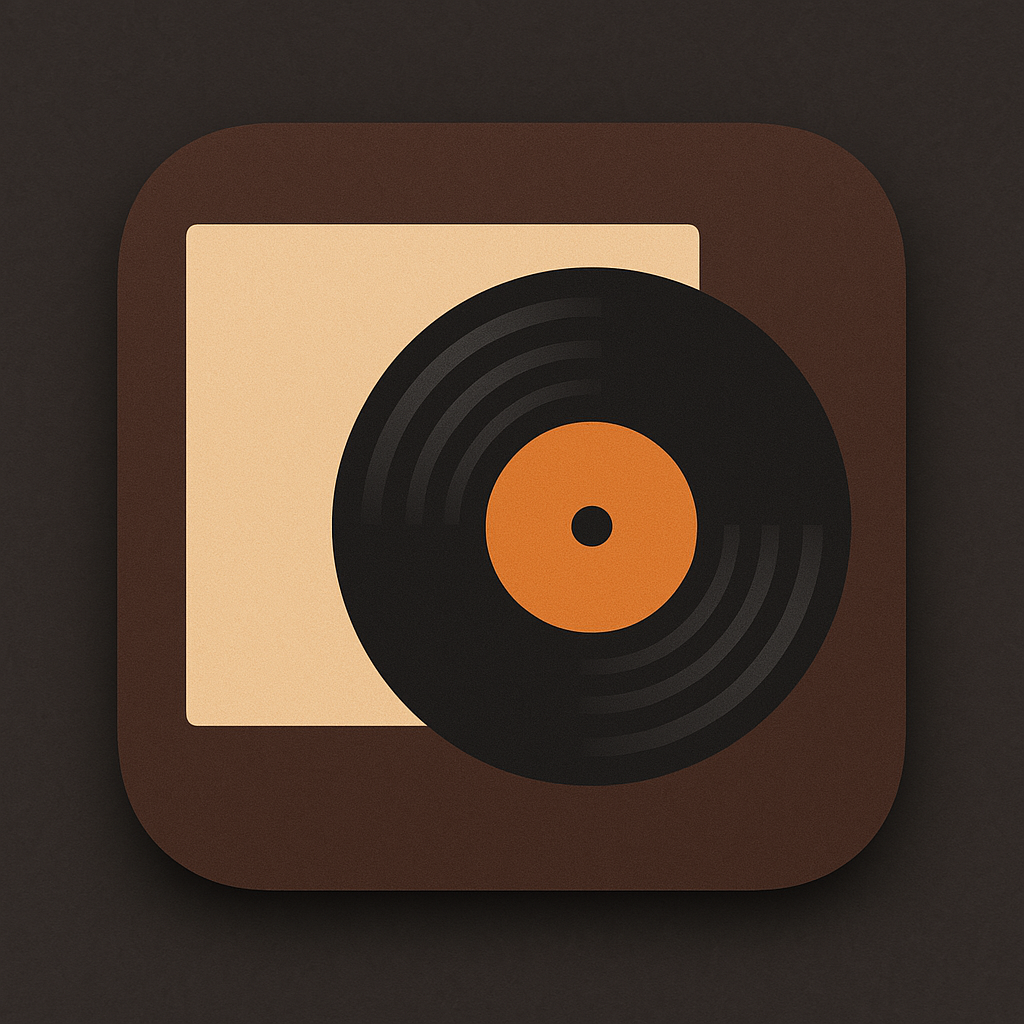
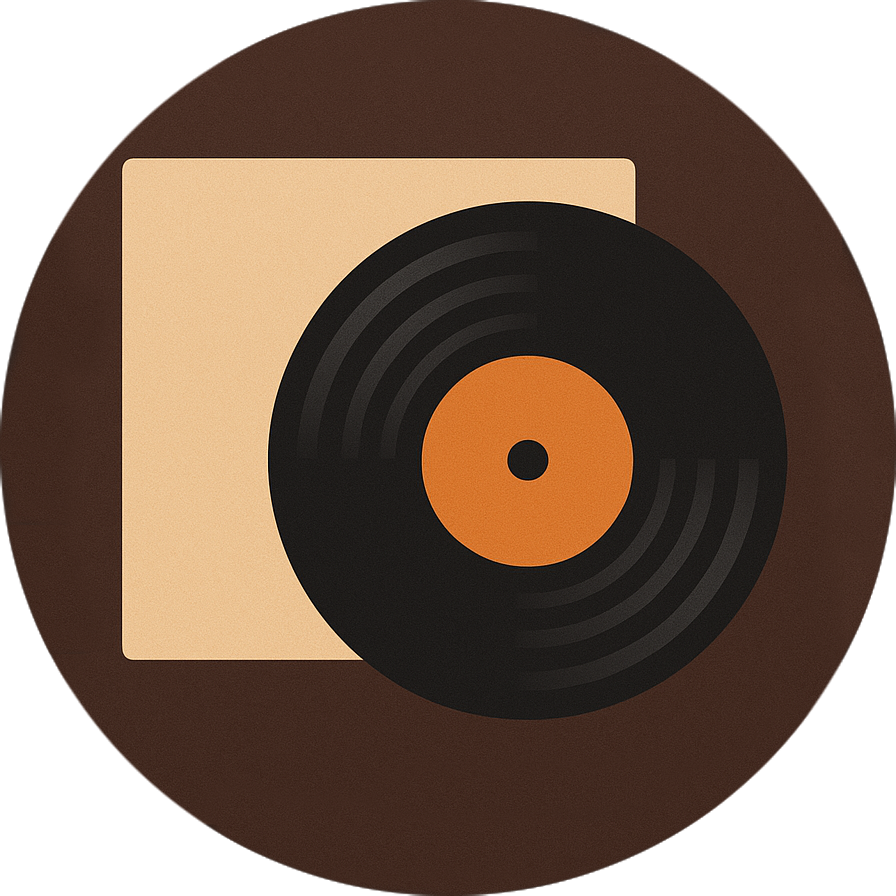
Modificata icona con una rotonda. Aggiunta la modalità Dark in tutte le schermate con un pulsante di sole/luna in base alla modalità attuale (per fare questo modificate le classi genere_tile.dart, homepage.dart, main.dart). Modificato mainscaffold.dart con l'aggiunta di un'animazione tra le pagine.

diff --git a/lib/components/genere_tile.dart b/lib/components/genere_tile.dart
@@ -1,11 +1,11 @@
-import 'package:vinyl_collection_app/utils/dimensioniSchermo.dart';
 import 'package:flutter/material.dart';
+import 'package:vinyl_collection_app/utils/dimensioniSchermo.dart';
 
 class GenereTile extends StatelessWidget {
-  final int genereId; //per recuperare i vinili
+  final int genereId;
   final String nomeGenere;
   final int numeroVinili;
-  final VoidCallback onTap; // Callback da eseguire quando la tile viene toccata
+  final VoidCallback onTap;
 
   const GenereTile({
     super.key,
@@ -17,59 +17,57 @@ class GenereTile extends StatelessWidget {
 
   @override
   Widget build(BuildContext context) {
-    // Calcola la larghezza della card in base alla larghezza dello schermo.
-    final double cardWidth = context.screenWidth * 0.4;
+    final double cardWidth   = context.screenWidth * 0.4;
+    final double iconSize    = cardWidth * 0.6;
+    final double titleSize   = context.shortestSide * 0.045;
+    final double countSize   = context.shortestSide * 0.03;
 
-    // L'altezza dell'icona (se presente) può essere proporzionale alla larghezza della card.
-    final double iconSize = cardWidth * 0.6; // Esempio: 60% della larghezza della card
-
-    // Le dimensioni del font possono essere proporzionali al lato più corto dello schermo
-    // per adattarsi meglio sia in verticale che in orizzontale.
-    final double titleFontSize = context.shortestSide * 0.045; // Dimensione per il nome del genere
-    final double countFontSize = context.shortestSide * 0.03; // Dimensione per il conteggio dei vinili
+    // Tavolozza del tema corrente
+    final theme      = Theme.of(context);
+    final scheme     = theme.colorScheme;
+    final textTheme  = theme.textTheme;
 
     return InkWell(
-      onTap: onTap, // Esegue la callback passata al costruttore
+      onTap: onTap,
       child: Card(
-        margin: const EdgeInsets.symmetric(horizontal: 6, vertical: 8), // Margini per separare le card
-        elevation: 4, // Ombra per dare un effetto 3D
-        shape: RoundedRectangleBorder(borderRadius: BorderRadius.circular(12)), // Bordi arrotondati
+        elevation: 4,
+        margin: const EdgeInsets.symmetric(horizontal: 6, vertical: 8),
+        shape: RoundedRectangleBorder(borderRadius: BorderRadius.circular(12)),
+        color: scheme.surface,                       // sfondo adattivo
         child: Container(
-          width: cardWidth, // Larghezza del contenitore della card
-          padding: const EdgeInsets.all(12), // Padding interno per il contenuto
+          width: cardWidth,
+          padding: const EdgeInsets.all(12),
           child: Column(
-            mainAxisAlignment: MainAxisAlignment.center, // Centra il contenuto verticalmente
-            crossAxisAlignment: CrossAxisAlignment.center, // Centra il contenuto orizzontalmente
+            mainAxisAlignment: MainAxisAlignment.center,
             children: [
-              // Icona del genere (puoi cambiarla o renderla dinamica)
               Icon(
-                Icons.music_note_rounded, // Icona generica per la musica
-                size: iconSize, // Dimensione dell'icona responsive
-                color: Theme.of(context).primaryColor, // Colore dell'icona dal tema
+                Icons.music_note_rounded,
+                size: iconSize,
+                color: scheme.primary,               // usa il primario del tema
               ),
-              const SizedBox(height: 8), // Spazio tra icona e nome del genere
+              const SizedBox(height: 8),
 
               // Nome del genere
               Text(
                 nomeGenere,
-                textAlign: TextAlign.center, // Centra il testo
-                maxLines: 2, // Permette al nome di andare su due righe se lungo
-                overflow: TextOverflow.ellipsis, // Aggiunge "..." se il testo è troppo lungo
-                style: TextStyle(
+                textAlign: TextAlign.center,
+                maxLines: 2,
+                overflow: TextOverflow.ellipsis,
+                style: textTheme.titleMedium?.copyWith(
                   fontWeight: FontWeight.bold,
-                  fontSize: titleFontSize, // Dimensione del font responsive
-                  color: Colors.black87,
+                  fontSize: titleSize,
+                  color: scheme.onSurface,           // testo adattivo
                 ),
               ),
-              const SizedBox(height: 4), // Spazio tra nome e conteggio
+              const SizedBox(height: 4),
 
-              // Conteggio dei vinili
+              // Conteggio vinili
               Text(
-                '$numeroVinili ${numeroVinili == 1 ? 'vinile' : 'vinili'}', // Gestione del plurale
-                textAlign: TextAlign.center, // Centra il testo
-                style: TextStyle(
-                  color: Colors.grey[600],
-                  fontSize: countFontSize, // Dimensione del font responsive
+                '$numeroVinili ${numeroVinili == 1 ? 'vinile' : 'vinili'}',
+                textAlign: TextAlign.center,
+                style: textTheme.bodySmall?.copyWith(
+                  fontSize: countSize,
+                  color: scheme.onSurfaceVariant,    // tono attenuato
                 ),
               ),
             ],

diff --git a/lib/screen/mainscaffold.dart b/lib/screen/mainscaffold.dart
@@ -1,27 +1,30 @@
 import 'package:flutter/material.dart';
-import 'package:vinyl_collection_app/screen/schermatacategorie.dart';
+import '../utils/theme_toggle_action.dart';
 import 'homepage.dart';
 import 'ricerca.dart';
+import 'schermatacategorie.dart';
 import 'schermatacollezione.dart';
 
 class MainScaffold extends StatefulWidget {
   const MainScaffold({super.key});
-
   @override
   State<MainScaffold> createState() => _MainScaffoldState();
 }
 
 class _MainScaffoldState extends State<MainScaffold> {
+  late final PageController _pageController;
   int _currentIndex = 0;
 
-  final GlobalKey<SchermataCollezioneState> _collezioneKey = GlobalKey<SchermataCollezioneState>();
-  final GlobalKey<HomeScreenState> _homeKey = GlobalKey<HomeScreenState>();
-  final GlobalKey<SchermataCategorieState> _categorieKey = GlobalKey<SchermataCategorieState>();
+  final _homeKey       = GlobalKey<HomeScreenState>();
+  final _collezioneKey = GlobalKey<SchermataCollezioneState>();
+  final _categorieKey  = GlobalKey<SchermataCategorieState>();
+
   late final List<Widget> _pages;
 
   @override
   void initState() {
     super.initState();
+    _pageController = PageController(initialPage: 0);
     _pages = [
       HomeScreen(key: _homeKey),
       const SearchScreen(),
@@ -29,47 +32,59 @@ class _MainScaffoldState extends State<MainScaffold> {
       SchermataCategorie(key: _categorieKey),
     ];
   }
-void _vaiSchermataAggiunta() async{
-    bool? aggiunto= await Navigator.pushNamed(context, '/aggiunta') as bool?;
-    if(aggiunto==true){
+
+  @override
+  void dispose() {
+    _pageController.dispose();
+    super.dispose();
+  }
+
+  // se devi richiamare ricariche dopo un’aggiunta
+  void _vaiSchermataAggiunta() async {
+    final aggiunto = await Navigator.pushNamed(context, '/aggiunta') as bool?;
+    if (aggiunto == true) {
       _homeKey.currentState?.caricaDati();
       _collezioneKey.currentState?.caricaVinili();
       _categorieKey.currentState?.aggiornaGeneri();
     }
-
-}
+  }
 
   @override
   Widget build(BuildContext context) {
     return Scaffold(
-      body: IndexedStack(
-        index: _currentIndex,
+      appBar: AppBar(
+        title: Text(['Home', 'Cerca', 'Collezione', 'Categorie'][_currentIndex]),
+        centerTitle: true,
+        actions: const [ThemeToggleAction()],
+      ),
+
+      // 🔄 PageView = transizione slide
+      body: PageView(
+        controller: _pageController,
+        physics: const NeverScrollableScrollPhysics(), // se non vuoi swipe
+        onPageChanged: (index) => setState(() => _currentIndex = index),
         children: _pages,
       ),
+
       floatingActionButton: FloatingActionButton(
         heroTag: 'SchermataAggiunta',
-        onPressed: _vaiSchermataAggiunta,
         tooltip: 'Aggiungi nuovo vinile',
+        onPressed: _vaiSchermataAggiunta,
         child: const Icon(Icons.add),
       ),
+
       bottomNavigationBar: BottomNavigationBar(
         currentIndex: _currentIndex,
         backgroundColor: Colors.black,
         selectedItemColor: const Color(0xFF1DB954),
         unselectedItemColor: Colors.grey,
         onTap: (index) {
-          setState(() {
-            _currentIndex = index;
-          });
-          if (index==0){
-            _homeKey.currentState?.caricaDati();
-          }
-          if (index == 2) {  // 2 è l'indice della schermata Collezione
-            _collezioneKey.currentState?.caricaVinili();
-          }
-          if (index == 3) {  // 2 è l'indice della schermata Collezione
-            _categorieKey.currentState?.aggiornaGeneri();
-          }
+          // animazione: 300ms, lenta
+          _pageController.animateToPage(
+            index,
+            duration: const Duration(milliseconds: 300),
+            curve: Curves.ease,
+          );
         },
         items: const [
           BottomNavigationBarItem(
@@ -87,10 +102,10 @@ void _vaiSchermataAggiunta() async{
             label: 'Collezione',
           ),
           BottomNavigationBarItem(
-              icon: Icon(Icons.category_outlined),
-              activeIcon: Icon(Icons.category),
-              label:'Categorie',
-          )
+            icon: Icon(Icons.category_outlined),
+            activeIcon: Icon(Icons.category),
+            label: 'Categorie',
+          ),
         ],
       ),
     );

diff --git a/lib/screen/homepage.dart b/lib/screen/homepage.dart
@@ -1,4 +1,3 @@
-// lib/screens/home_screen.dart
 import 'package:flutter/material.dart';
 import 'package:google_fonts/google_fonts.dart';
 import 'package:vinyl_collection_app/screen/dettagliovinilecollezione.dart';
@@ -75,7 +74,6 @@ class HomeScreenState extends State<HomeScreen> {
     final headline = GoogleFonts.roboto(
       fontSize: 22,
       fontWeight: FontWeight.bold,
-      color: Colors.black,
     );
 
     if (_isLoading) {
@@ -83,7 +81,7 @@ class HomeScreenState extends State<HomeScreen> {
     }
 
     return Scaffold(
-      backgroundColor: Colors.white,
+      backgroundColor: Theme.of(context).colorScheme.surface,
       body: RefreshIndicator(
         onRefresh: caricaDati,
         child: ListView(
@@ -94,19 +92,19 @@ class HomeScreenState extends State<HomeScreen> {
             _HorizontalList(
               vinili: _recent,
               itemWidth: cardWidth,
-              listHeight: listHeight, // Passa l'altezza calcolata
+              listHeight: listHeight,
               itemBuilder: (vinile) => SuggestionTile(
                 vinile: vinile,
                 onTap: () => _apriDettaglioCollezione(vinile),
               ),
             ),
-            const SizedBox(height: 28), // Mantenuto lo spazio tra le sezioni
+            const SizedBox(height: 28),
             Text('Consigliati per te', style: headline),
             const SizedBox(height: 12),
             _HorizontalList(
               vinili: _suggested,
               itemWidth: cardWidth,
-              listHeight: listHeight, // Passa l'altezza calcolata
+              listHeight: listHeight,
               itemBuilder: (v) => SuggestionTile(
                 vinile: v,
                 onTap: () => _apriDettaglioSuggested(context, v),

diff --git a/lib/main.dart b/lib/main.dart
@@ -1,6 +1,7 @@
 import 'package:flutter/material.dart';
 import 'package:flutter_dotenv/flutter_dotenv.dart';
 
+import 'notifier/theme_notifier.dart';
 import 'screen/mainscaffold.dart';
 import 'screen/schermataaggiungi.dart';
 
@@ -16,16 +17,27 @@ class MyApp extends StatelessWidget {
 
   @override
   Widget build(BuildContext context) {
-    return MaterialApp(
-      title: 'Vinyl Collector',
-      debugShowCheckedModeBanner: false,
-      theme: ThemeData(
-        colorSchemeSeed: Colors.deepPurple,
-        brightness: Brightness.light,
-      ),
-      home: const MainScaffold(),
-      routes: {
-        '/aggiunta': (context) => const SchermataAggiungi(),
+    return ValueListenableBuilder<ThemeMode>(
+      valueListenable: themeNotifier,
+      builder: (_, currentMode, __) {
+        return MaterialApp(
+          title: 'Vinyl Collector',
+          debugShowCheckedModeBanner: false,
+          theme: ThemeData(
+            colorSchemeSeed: Colors.deepPurple,
+            brightness: Brightness.light,
+          ),
+          darkTheme: ThemeData(
+            colorSchemeSeed: Colors.deepPurple,
+            brightness: Brightness.dark,
+          ),
+          themeMode: currentMode,
+          // 👈 usa il valore del notifier
+          home: const MainScaffold(),
+          routes: {
+            '/aggiunta': (context) => const SchermataAggiungi(),
+          },
+        );
       },
     );
   }

diff --git a/lib/utils/theme_toggle_action.dart b/lib/utils/theme_toggle_action.dart
@@ -1,0 +1,23 @@
+import 'package:flutter/material.dart';
+import '../notifier/theme_notifier.dart';
+
+class ThemeToggleAction extends StatelessWidget {
+  const ThemeToggleAction({super.key});
+
+  @override
+  Widget build(BuildContext context) {
+    return ValueListenableBuilder<ThemeMode>(
+      valueListenable: themeNotifier,
+      builder: (_, mode, __) {
+        final isDark = mode == ThemeMode.dark;
+        return IconButton(
+          tooltip: isDark ? 'Tema chiaro' : 'Tema scuro',
+          icon: Icon(isDark ? Icons.wb_sunny : Icons.nightlight_round),
+          onPressed: () {
+            themeNotifier.value = isDark ? ThemeMode.light : ThemeMode.dark;
+          },
+        );
+      },
+    );
+  }
+}

diff --git a/lib/notifier/theme_notifier.dart b/lib/notifier/theme_notifier.dart
@@ -1,0 +1,5 @@
+import 'package:flutter/material.dart';
+
+// Semplice classe "ValueNotifier" che mantiene salvato il tema corrente.
+final ValueNotifier<ThemeMode> themeNotifier =
+ValueNotifier<ThemeMode>(ThemeMode.light);
